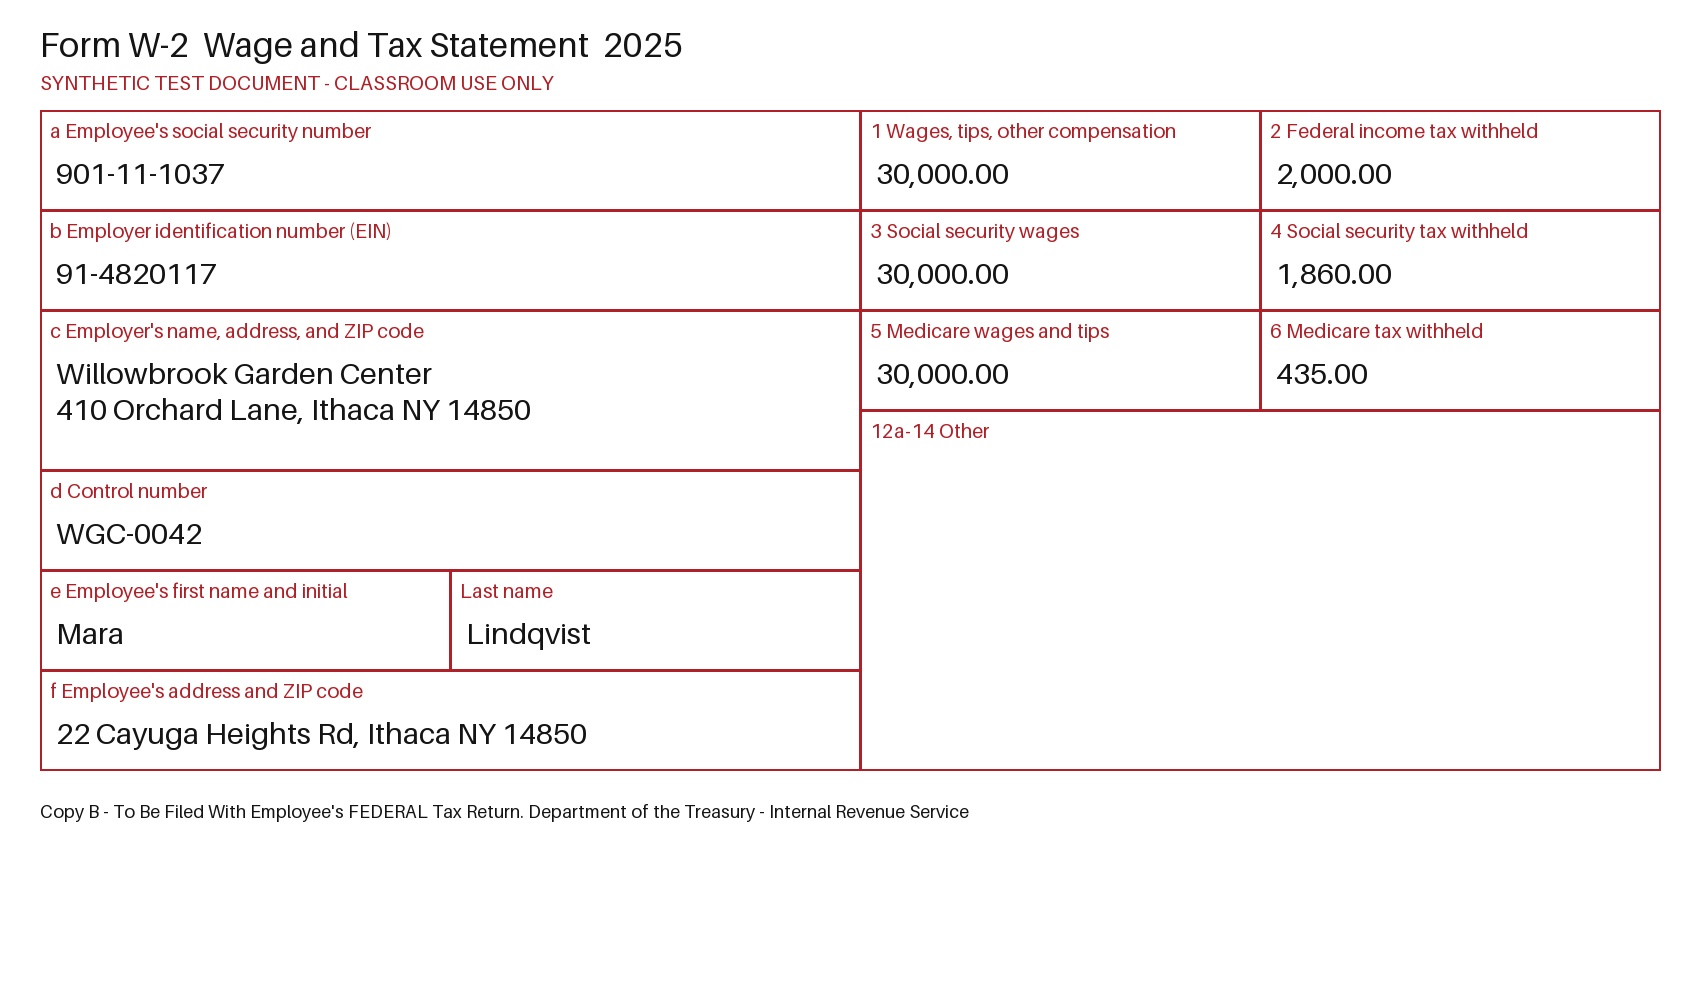
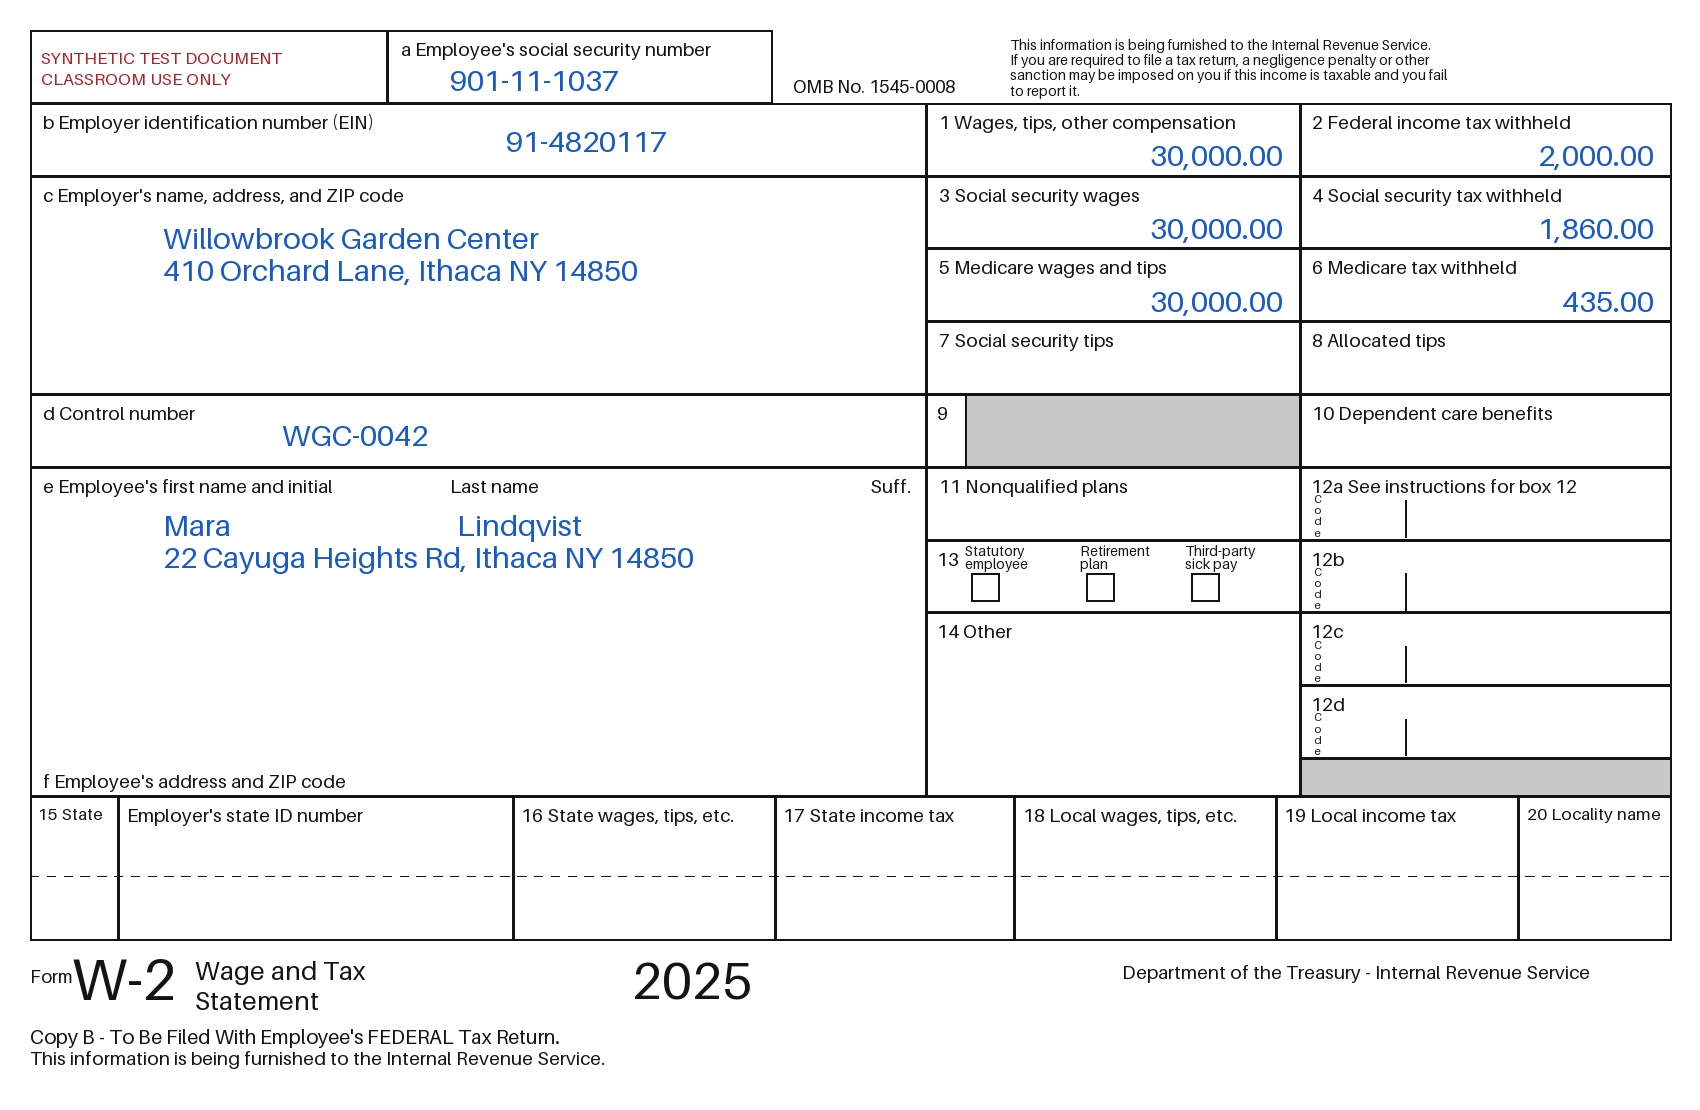
Draw sample W-2s on the official IRS form layout
The generated W-2s now follow the real Form W-2 (Copy B): boxes a-f,
1-20, box 12 code rows, box 13 checkboxes and the state/local rows,
with black labels and blue typed entries. Mara and Rosa keep the same
values, so eval_case_1 is unchanged.

Adds demo/w2_image_3.jpg (Theo Brandt), a W-2 with every box filled:
401(k) deferral in 12a D, employer health cost in 12b DD, retirement
plan checked and a NY state row. SSN 903-45-6789 is a 900-series test
number. The extraction test now reads box 1 and box 2 from all three.

AI-assisted: Claude

diff --git a/data/generate_fixtures.py b/data/generate_fixtures.py
@@ -5,8 +5,9 @@ Owner: Inter agent communication.
     python data/generate_fixtures.py
 
 Writes:
-- demo/w2_image_1.jpg, demo/w2_image_2.jpg: W-2 images drawn with Pillow, each with a sidecar
-  JSON (same name, .json) holding its ground truth. The sidecar never holds a full SSN.
+- demo/w2_image_1.jpg, demo/w2_image_2.jpg, demo/w2_image_3.jpg: filled-in W-2s drawn with Pillow
+  on the official IRS box layout (a-f, 1-20), each with a sidecar JSON (same name, .json) holding
+  its ground truth. The sidecar never holds a full SSN. Image 3 has every box filled.
 - data/fixtures/*.json: 1099-INT, 1099-DIV, 1099-R (normal, box 2b checked, IRA with a QCD),
   SSA-1099 and an out-of-scope 1099-NEC.
 - demo/eval_case_1/case.json: the clean run (contract section 13).
@@ -32,14 +33,16 @@ FIXTURES = ROOT / "data" / "fixtures"
 DEMO = ROOT / "demo"
 
 INK = (20, 20, 20)
-FORM_RED = (176, 32, 40)
+FILL_BLUE = (25, 90, 200)        # typed entries, like a W-2 filled in by payroll software
+SHADE = (200, 200, 200)
+WATERMARK = (176, 32, 40)
 PAPER = (255, 255, 255)
-SIZE = (1700, 1000)
+SIZE = (1700, 1110)
 
 
 @dataclass(frozen=True)
 class W2:
-    """What is printed on one synthetic W-2. Amounts are in whole dollars."""
+    """What is printed on one synthetic W-2. Amounts are in whole dollars; 0 or "" leaves a box blank."""
     employee_first: str
     employee_last: str
     employee_ssn: str            # must be 900-999 area
@@ -54,6 +57,22 @@ class W2:
     box5_medicare_wages: int
     box6_medicare_withheld: int
     control_number: str = ""
+    box7_ss_tips: int = 0
+    box8_allocated_tips: int = 0
+    box10_dependent_care: int = 0
+    box11_nonqualified: int = 0
+    box12: tuple[tuple[str, int], ...] = ()          # up to four (code, amount) pairs, 12a-12d
+    box13_statutory: bool = False
+    box13_retirement_plan: bool = False
+    box13_third_party_sick: bool = False
+    box14_other: str = ""
+    state: str = ""                                  # boxes 15-20, one state/locality row
+    state_id: str = ""
+    box16_state_wages: int = 0
+    box17_state_tax: int = 0
+    box18_local_wages: int = 0
+    box19_local_tax: int = 0
+    box20_locality: str = ""
 
     def ground_truth(self) -> dict:
         """The sidecar record: contract section 5 W-2 fields, last four SSN digits only."""
@@ -86,58 +105,189 @@ ROSA_W2 = W2(
     box5_medicare_wages=18500, box6_medicare_withheld=268, control_number="FLPL-1187",
 )
 
+# Every box filled, after the layout of a payroll-printed W-2: 401(k) deferrals (12a D) make box 1
+# lower than boxes 3 and 5, employer health cost is reported in 12b DD, and the retirement plan box
+# is checked. Not used by eval_case_1; it is here for demos and for other eval cases.
+THEO_W2 = W2(
+    employee_first="Theo R", employee_last="Brandt", employee_ssn="903-45-6789",
+    employer_name="Ithaca Valley Hardware", employer_address="215 Meadow Street\nIthaca NY 14850",
+    employer_ein="91-2233445", employee_address="48 Elm Street\nDryden NY 13053",
+    box1_wages=48500, box2_fed_withheld=6835, box3_ss_wages=50000, box4_ss_withheld=3100,
+    box5_medicare_wages=50000, box6_medicare_withheld=725, control_number="IVH-A1B2",
+    box12=(("D", 1500), ("DD", 1000)), box13_retirement_plan=True,
+    state="NY", state_id="91-0457812", box16_state_wages=50000, box17_state_tax=1535,
+)
+
+
+# Layout of the official Form W-2, in points measured from the IRS form (form is 1172 x 650),
+# scaled onto the image. Columns: the left block, box 1 column, box 2 column.
+_SCALE, _ORIGIN = 1.4, (30, 30)
+_LEFT, _MID, _HALF, _RIGHT = 0, 640, 907, 1172
+
+
+def _xy(x: float, y: float) -> tuple[int, int]:
+    return round(_ORIGIN[0] + x * _SCALE), round(_ORIGIN[1] + y * _SCALE)
+
 
 def _font(size: int) -> ImageFont.FreeTypeFont:
     return ImageFont.load_default(size=size)  # bundled with Pillow, so every machine draws the same image
 
 
 def _money(amount: int) -> str:
-    return f"{amount:,.2f}"
+    return f"{amount:,.2f}" if amount else ""
 
 
-def _cell(draw: ImageDraw.ImageDraw, box: tuple[int, int, int, int], label: str, value: str) -> None:
-    """One W-2 box: a ruled rectangle, a small label at the top, the value underneath."""
-    x0, y0, x1, y1 = box
-    draw.rectangle(box, outline=FORM_RED, width=2)
-    draw.text((x0 + 10, y0 + 8), label, font=_font(20), fill=FORM_RED)
-    for row, text in enumerate(value.split("\n")):
-        draw.text((x0 + 16, y0 + 44 + row * 36), text, font=_font(30), fill=INK)
+def _rect(draw: ImageDraw.ImageDraw, x0: float, y0: float, x1: float, y1: float, fill=None) -> None:
+    draw.rectangle((*_xy(x0, y0), *_xy(x1, y1)), outline=INK, width=2, fill=fill)
+
+
+def _label(draw: ImageDraw.ImageDraw, x: float, y: float, text: str, size: int = 19) -> None:
+    draw.text(_xy(x, y), text, font=_font(size), fill=INK)
+
+
+def _entry(draw: ImageDraw.ImageDraw, x: float, y: float, text: str, size: int = 30) -> None:
+    """Typed text, one line per newline."""
+    for row, line in enumerate(text.split("\n")):
+        draw.text(_xy(x, y + row * 23), line, font=_font(size), fill=FILL_BLUE)
+
+
+def _amount(draw: ImageDraw.ImageDraw, right: float, y: float, amount: int) -> None:
+    """A dollar amount right-aligned against a box edge, as payroll software prints it."""
+    text = _money(amount)
+    width = draw.textlength(text, font=_font(30)) / _SCALE
+    _entry(draw, right - 12 - width, y, text)
+
+
+def _money_box(draw: ImageDraw.ImageDraw, x0: float, y0: float, x1: float, y1: float,
+               label: str, amount: int) -> None:
+    _rect(draw, x0, y0, x1, y1)
+    _label(draw, x0 + 9, y0 + 5, label)
+    _amount(draw, x1, y0 + 24, amount)
+
+
+def _checkbox(draw: ImageDraw.ImageDraw, x: float, y: float, label: str, checked: bool) -> None:
+    for row, word in enumerate(label.split("\n")):
+        draw.text(_xy(x, y + row * 9), word, font=_font(14), fill=INK)
+    _rect(draw, x + 4, y + 22, x + 24, y + 42)
+    if checked:
+        _entry(draw, x + 8, y + 20, "X", size=28)
+
+
+def _draw_header(draw: ImageDraw.ImageDraw, w2: W2) -> None:
+    _rect(draw, _LEFT, 0, 255, 52)
+    _rect(draw, 255, 0, 530, 52)
+    _label(draw, 265, 5, "a Employee's social security number")
+    _entry(draw, 300, 22, w2.employee_ssn)
+    _label(draw, 545, 32, "OMB No. 1545-0008", size=18)
+    draw.text(_xy(8, 12), "SYNTHETIC TEST DOCUMENT\nCLASSROOM USE ONLY", font=_font(17), fill=WATERMARK)
+    for row, text in enumerate(("This information is being furnished to the Internal Revenue Service.",
+                                "If you are required to file a tax return, a negligence penalty or other",
+                                "sanction may be imposed on you if this income is taxable and you fail",
+                                "to report it.")):
+        draw.text(_xy(700, 4 + row * 11), text, font=_font(14), fill=INK)
+
+
+def _draw_left_block(draw: ImageDraw.ImageDraw, w2: W2) -> None:
+    _rect(draw, _LEFT, 52, _MID, 104)
+    _label(draw, 9, 57, "b Employer identification number (EIN)")
+    _entry(draw, 340, 66, w2.employer_ein)
+    _rect(draw, _LEFT, 104, _MID, 260)
+    _label(draw, 9, 109, "c Employer's name, address, and ZIP code")
+    _entry(draw, 95, 135, f"{w2.employer_name}\n{w2.employer_address}")
+    _rect(draw, _LEFT, 260, _MID, 312)
+    _label(draw, 9, 265, "d Control number")
+    _entry(draw, 180, 276, w2.control_number)
+    _rect(draw, _LEFT, 312, _MID, 547)
+    _label(draw, 9, 317, "e Employee's first name and initial")
+    _label(draw, 300, 317, "Last name")
+    _label(draw, 600, 317, "Suff.")
+    _entry(draw, 95, 340, w2.employee_first)
+    _entry(draw, 305, 340, w2.employee_last)
+    _entry(draw, 95, 363, w2.employee_address)
+    _label(draw, 9, 528, "f Employee's address and ZIP code")
+
+
+def _draw_right_block(draw: ImageDraw.ImageDraw, w2: W2) -> None:
+    rows = [("1 Wages, tips, other compensation", w2.box1_wages, "2 Federal income tax withheld", w2.box2_fed_withheld),
+            ("3 Social security wages", w2.box3_ss_wages, "4 Social security tax withheld", w2.box4_ss_withheld),
+            ("5 Medicare wages and tips", w2.box5_medicare_wages, "6 Medicare tax withheld", w2.box6_medicare_withheld),
+            ("7 Social security tips", w2.box7_ss_tips, "8 Allocated tips", w2.box8_allocated_tips)]
+    for index, (left_label, left_amount, right_label, right_amount) in enumerate(rows):
+        y0 = 52 + index * 52
+        _money_box(draw, _MID, y0, _HALF, y0 + 52, left_label, left_amount)
+        _money_box(draw, _HALF, y0, _RIGHT, y0 + 52, right_label, right_amount)
+    _rect(draw, _MID, 260, _HALF, 312)
+    _rect(draw, _MID + 28, 260, _HALF, 312, fill=SHADE)
+    _label(draw, _MID + 8, 265, "9")
+    _money_box(draw, _HALF, 260, _RIGHT, 312, "10 Dependent care benefits", w2.box10_dependent_care)
+    _money_box(draw, _MID, 312, _HALF, 364, "11 Nonqualified plans", w2.box11_nonqualified)
+
+    _rect(draw, _MID, 364, _HALF, 416)
+    _label(draw, _MID + 8, 369, "13")
+    for offset, label, checked in ((28, "Statutory\nemployee", w2.box13_statutory),
+                                   (110, "Retirement\nplan", w2.box13_retirement_plan),
+                                   (185, "Third-party\nsick pay", w2.box13_third_party_sick)):
+        _checkbox(draw, _MID + offset, 366, label, checked)
+    _rect(draw, _MID, 416, _HALF, 547)
+    _label(draw, _MID + 8, 421, "14 Other")
+    _entry(draw, _MID + 12, 442, w2.box14_other, size=24)
+
+    codes = list(w2.box12) + [("", 0)] * (4 - len(w2.box12))
+    for index, (code, amount) in enumerate(codes[:4]):
+        y0 = 312 + index * 52
+        _rect(draw, _HALF, y0, _RIGHT, y0 + 52)
+        _label(draw, _HALF + 8, y0 + 5, f"12{'abcd'[index]}" + (" See instructions for box 12" if index == 0 else ""))
+        for row, letter in enumerate("Code"):
+            draw.text(_xy(_HALF + 10, y0 + 18 + row * 8), letter, font=_font(11), fill=INK)
+        draw.line((*_xy(_HALF + 75, y0 + 24), *_xy(_HALF + 75, y0 + 50)), fill=INK, width=2)
+        _entry(draw, _HALF + 30, y0 + 22, code)
+        _amount(draw, _RIGHT, y0 + 22, amount)
+    _rect(draw, _HALF, 520, _RIGHT, 547, fill=SHADE)
+
+
+def _draw_state_rows(draw: ImageDraw.ImageDraw, w2: W2) -> None:
+    columns = [(0, 63, "15 State"), (63, 345, "Employer's state ID number"),
+               (345, 532, "16 State wages, tips, etc."), (532, 703, "17 State income tax"),
+               (703, 890, "18 Local wages, tips, etc."), (890, 1063, "19 Local income tax"),
+               (1063, 1172, "20 Locality name")]
+    values = [w2.state, w2.state_id, w2.box16_state_wages, w2.box17_state_tax, w2.box18_local_wages,
+              w2.box19_local_tax, w2.box20_locality]
+    for (x0, x1, label), value in zip(columns, values):
+        _rect(draw, x0, 547, x1, 650)
+        _label(draw, x0 + 6, 552, label, size=17 if x1 - x0 < 120 else 19)
+        if isinstance(value, int):
+            _amount(draw, x1, 568, value)
+        else:
+            _entry(draw, x0 + 12, 568, value)
+    for x in range(0, 1172, 12):  # dashed line between the two state rows
+        draw.line((*_xy(x, 604), *_xy(x + 6, 604)), fill=INK, width=1)
+
+
+def _draw_footer(draw: ImageDraw.ImageDraw) -> None:
+    draw.text(_xy(0, 668), "Form", font=_font(18), fill=INK)
+    draw.text(_xy(30, 652), "W-2", font=_font(58), fill=INK)
+    draw.text(_xy(118, 660), "Wage and Tax\nStatement", font=_font(26), fill=INK)
+    draw.text(_xy(430, 656), "2025", font=_font(52), fill=INK)
+    draw.text(_xy(780, 664), "Department of the Treasury - Internal Revenue Service", font=_font(19), fill=INK)
+    draw.text(_xy(0, 710), "Copy B - To Be Filed With Employee's FEDERAL Tax Return.", font=_font(20), fill=INK)
+    draw.text(_xy(0, 726), "This information is being furnished to the Internal Revenue Service.",
+              font=_font(19), fill=INK)
 
 
 def make_w2_image(w2: W2, path: Path) -> Path:
-    """Draw a W-2 with readable box labels (so OCR works) and write its sidecar JSON next to it."""
+    """Draw a filled-in W-2 on the official box layout and write its sidecar JSON next to it.
+
+    Labels are black and entries blue, so OCR can tell them apart by position under each label.
+    """
     if not 900 <= int(w2.employee_ssn[:3]) <= 999:
         raise ValueError("synthetic W-2s may only carry 900-series test SSNs")
     image = Image.new("RGB", SIZE, PAPER)
     draw = ImageDraw.Draw(image)
-    draw.text((40, 24), "Form W-2  Wage and Tax Statement  2025", font=_font(34), fill=INK)
-    draw.text((40, 70), "SYNTHETIC TEST DOCUMENT - CLASSROOM USE ONLY", font=_font(20), fill=FORM_RED)
-
-    left, mid, right = 40, 860, 1660
-    half = (mid + right) // 2
-    _cell(draw, (left, 110, mid, 210), "a Employee's social security number", w2.employee_ssn)
-    _cell(draw, (left, 210, mid, 310), "b Employer identification number (EIN)", w2.employer_ein)
-    _cell(draw, (left, 310, mid, 470), "c Employer's name, address, and ZIP code",
-          f"{w2.employer_name}\n{w2.employer_address}")
-    _cell(draw, (left, 470, mid, 570), "d Control number", w2.control_number)
-    _cell(draw, (left, 570, 450, 670), "e Employee's first name and initial", w2.employee_first)
-    _cell(draw, (450, 570, mid, 670), "Last name", w2.employee_last)
-    _cell(draw, (left, 670, mid, 770), "f Employee's address and ZIP code", w2.employee_address)
-
-    pairs = [("1 Wages, tips, other compensation", w2.box1_wages),
-             ("2 Federal income tax withheld", w2.box2_fed_withheld),
-             ("3 Social security wages", w2.box3_ss_wages),
-             ("4 Social security tax withheld", w2.box4_ss_withheld),
-             ("5 Medicare wages and tips", w2.box5_medicare_wages),
-             ("6 Medicare tax withheld", w2.box6_medicare_withheld)]
-    for index, (label, amount) in enumerate(pairs):
-        x0 = mid if index % 2 == 0 else half
-        x1 = half if index % 2 == 0 else right
-        y0 = 110 + (index // 2) * 100
-        _cell(draw, (x0, y0, x1, y0 + 100), label, _money(amount))
-    _cell(draw, (mid, 410, right, 770), "12a-14 Other", "")
-    draw.text((40, 800), "Copy B - To Be Filed With Employee's FEDERAL Tax Return. Department of the Treasury - "
-                         "Internal Revenue Service", font=_font(18), fill=INK)
+    _draw_header(draw, w2)
+    _draw_left_block(draw, w2)
+    _draw_right_block(draw, w2)
+    _draw_state_rows(draw, w2)
+    _draw_footer(draw)
 
     path.parent.mkdir(parents=True, exist_ok=True)
     image.save(path, "JPEG", quality=95)
@@ -218,7 +368,7 @@ def eval_case_1() -> dict:
 
 
 def main() -> None:
-    for name, w2 in (("w2_image_1.jpg", MARA_W2), ("w2_image_2.jpg", ROSA_W2)):
+    for name, w2 in (("w2_image_1.jpg", MARA_W2), ("w2_image_2.jpg", ROSA_W2), ("w2_image_3.jpg", THEO_W2)):
         print("wrote", make_w2_image(w2, DEMO / name).relative_to(ROOT))
     for name, data in JSON_FIXTURES.items():
         _write_json(FIXTURES / name, data)

diff --git a/tests/test_extraction.py b/tests/test_extraction.py
@@ -16,6 +16,7 @@ from src.state import SilverFileState
 ROOT = Path(__file__).resolve().parent.parent
 W2_IMAGE_1 = {"doc_id": "w2_1", "doc_type": "W2", "path": str(ROOT / "demo" / "w2_image_1.jpg")}
 W2_IMAGE_2 = {"doc_id": "w2_2", "doc_type": "W-2", "path": str(ROOT / "demo" / "w2_image_2.jpg")}
+W2_IMAGE_3 = {"doc_id": "w2_3", "doc_type": "W2", "path": str(ROOT / "demo" / "w2_image_3.jpg")}
 FULL_SSN = re.compile(r"\d{3}-?\d{2}-?\d{4}")
 LINE_WORDS = re.compile(r"\b(line|taxable income|total)\b", re.I)
 
@@ -40,6 +41,7 @@ needs_ocr = pytest.mark.skipif(not ocr_available() and llm.is_offline(), reason=
 @pytest.mark.parametrize("doc, wages, withheld, name", [
     (W2_IMAGE_1, 30000, 2000, "Mara Lindqvist"),
     (W2_IMAGE_2, 18500, 1200, "Rosa Delgado"),
+    (W2_IMAGE_3, 48500, 6835, "Theo R Brandt"),  # every box filled, including 12, 13 and state rows
 ])
 def test_w2_image_is_read_exactly(doc, wages, withheld, name):
     record = extract_document(doc)
